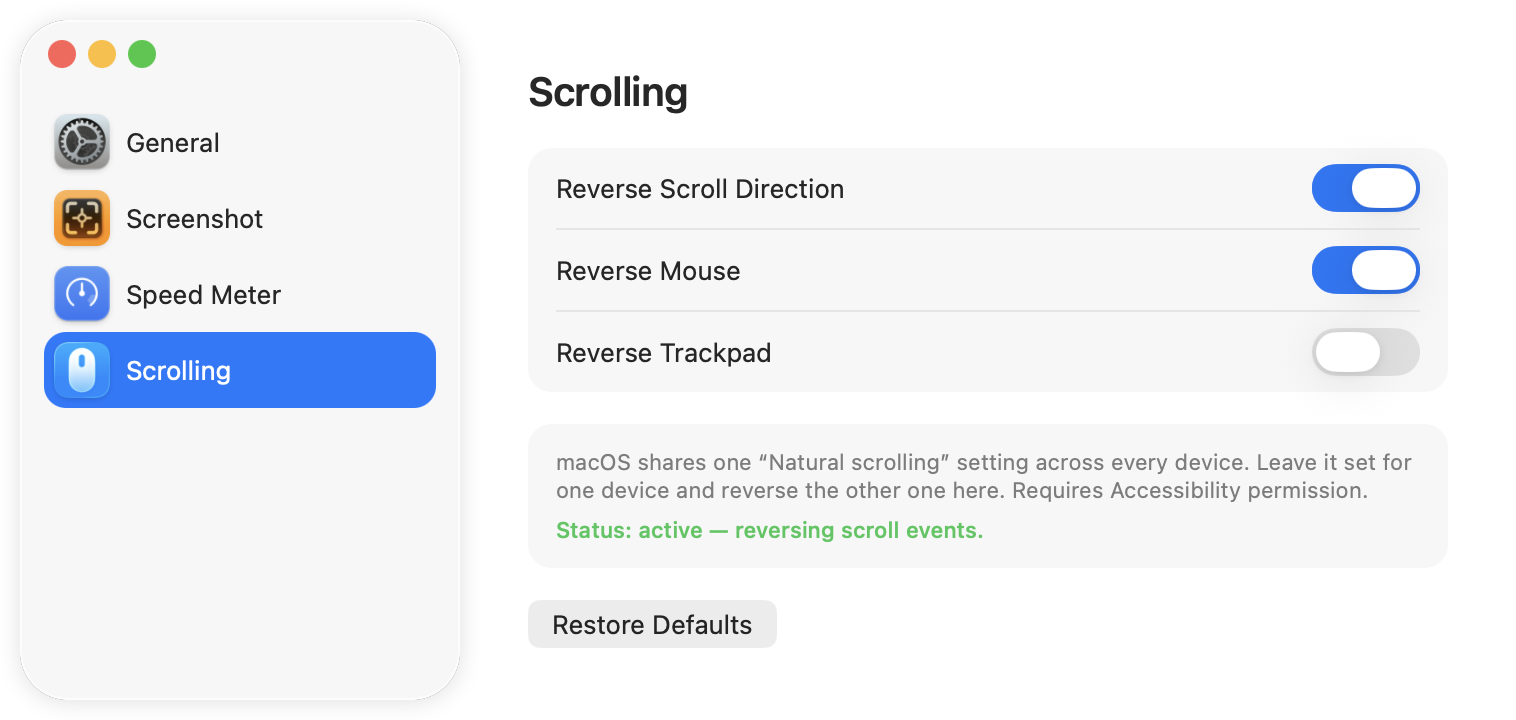
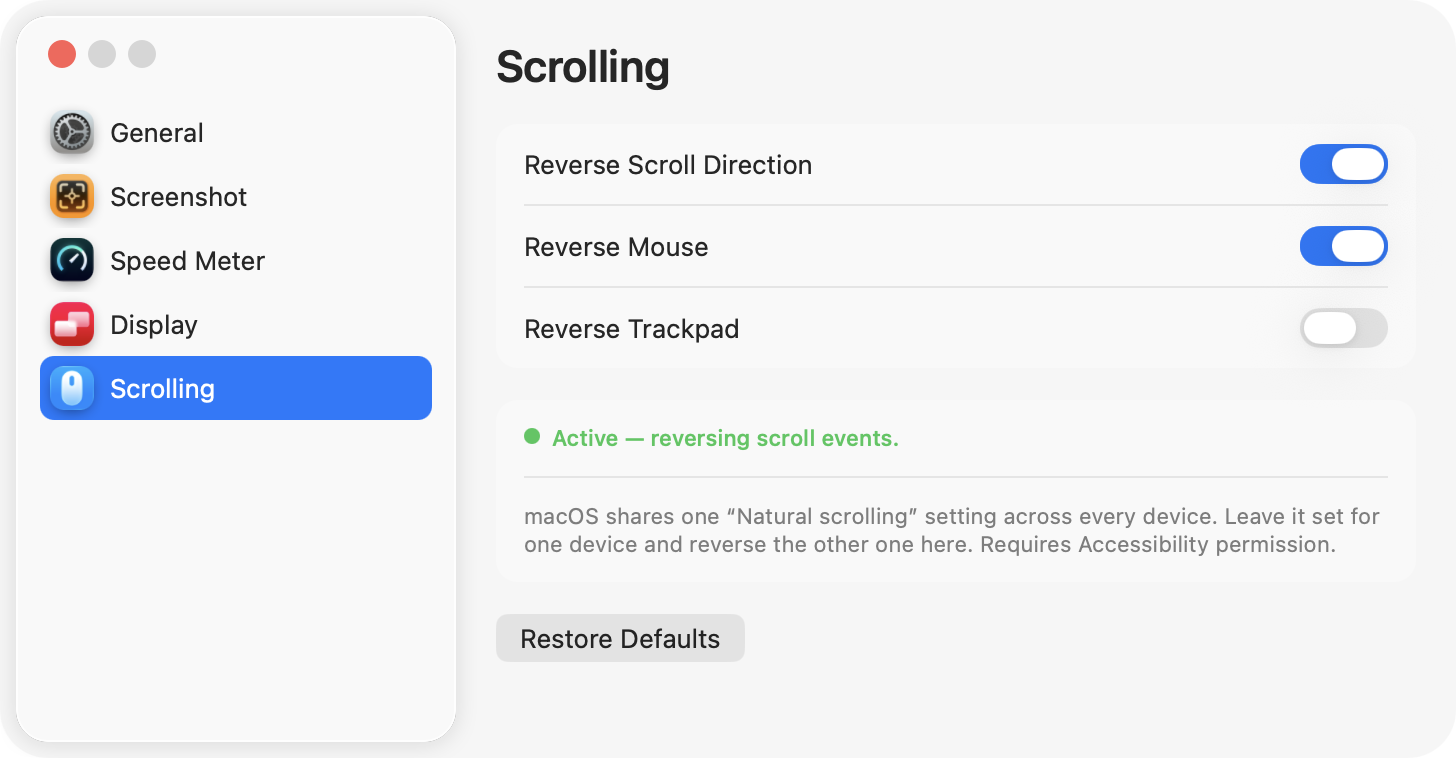
Refresh the Settings screenshots
Retakes all four pane shots against the current window — greyed page with
lighter cards, 22pt icon badges, 32pt sidebar rows, the reworked corner
radii — and adds the Display pane, which the README described but never
showed.

Captured by window id rather than by screen region, and the panes were
switched through the accessibility API rather than by clicking them.
Clicks never landed: the window sits behind another app, so the first
click only raises it and the second still misses. Region captures had the
same problem from the other side, grabbing whatever was stacked on top.

diff --git a/README.md b/README.md
@@ -79,6 +79,8 @@ Dạng sidebar-tabs giống System Settings, chia theo chức năng. Mỗi nhóm
 
 **Display** — công tắc cho phím âm lượng điều khiển loa màn hình ngoài, kèm dòng trạng thái cho biết đang chạy hay còn chờ quyền. Các slider độ sáng/âm lượng nằm trong menu bar chứ không ở đây.
 
+![Pane Display](docs/pane-display.png)
+
 **Speed Meter** — bật/tắt hiển thị tốc độ, chọn dòng ↑ ↓, đơn vị và nhịp cập nhật.
 
 ![Pane Speed Meter](docs/pane-speed-meter.png)
